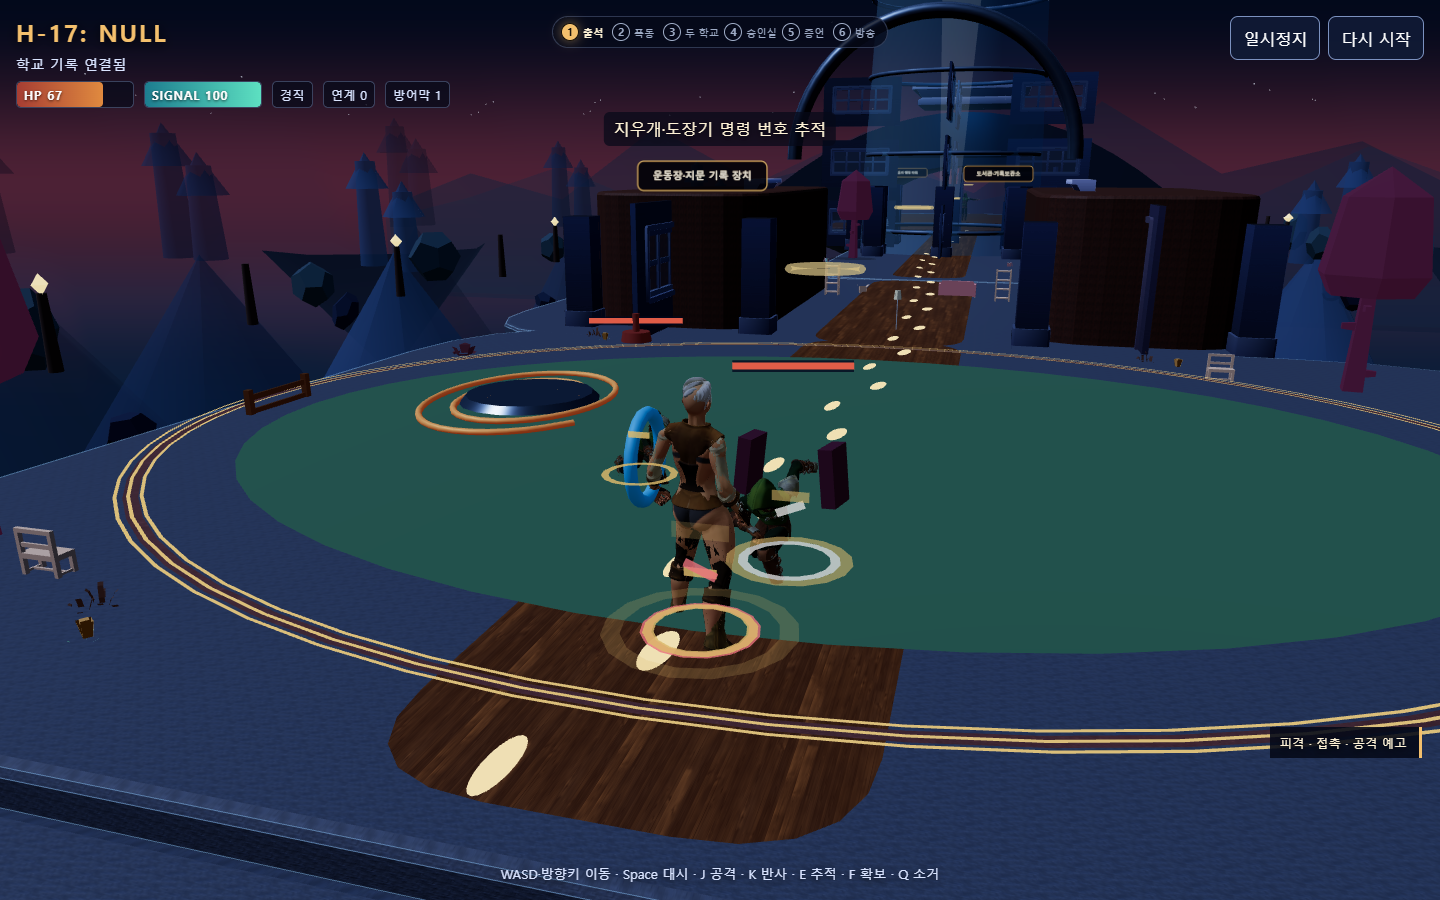
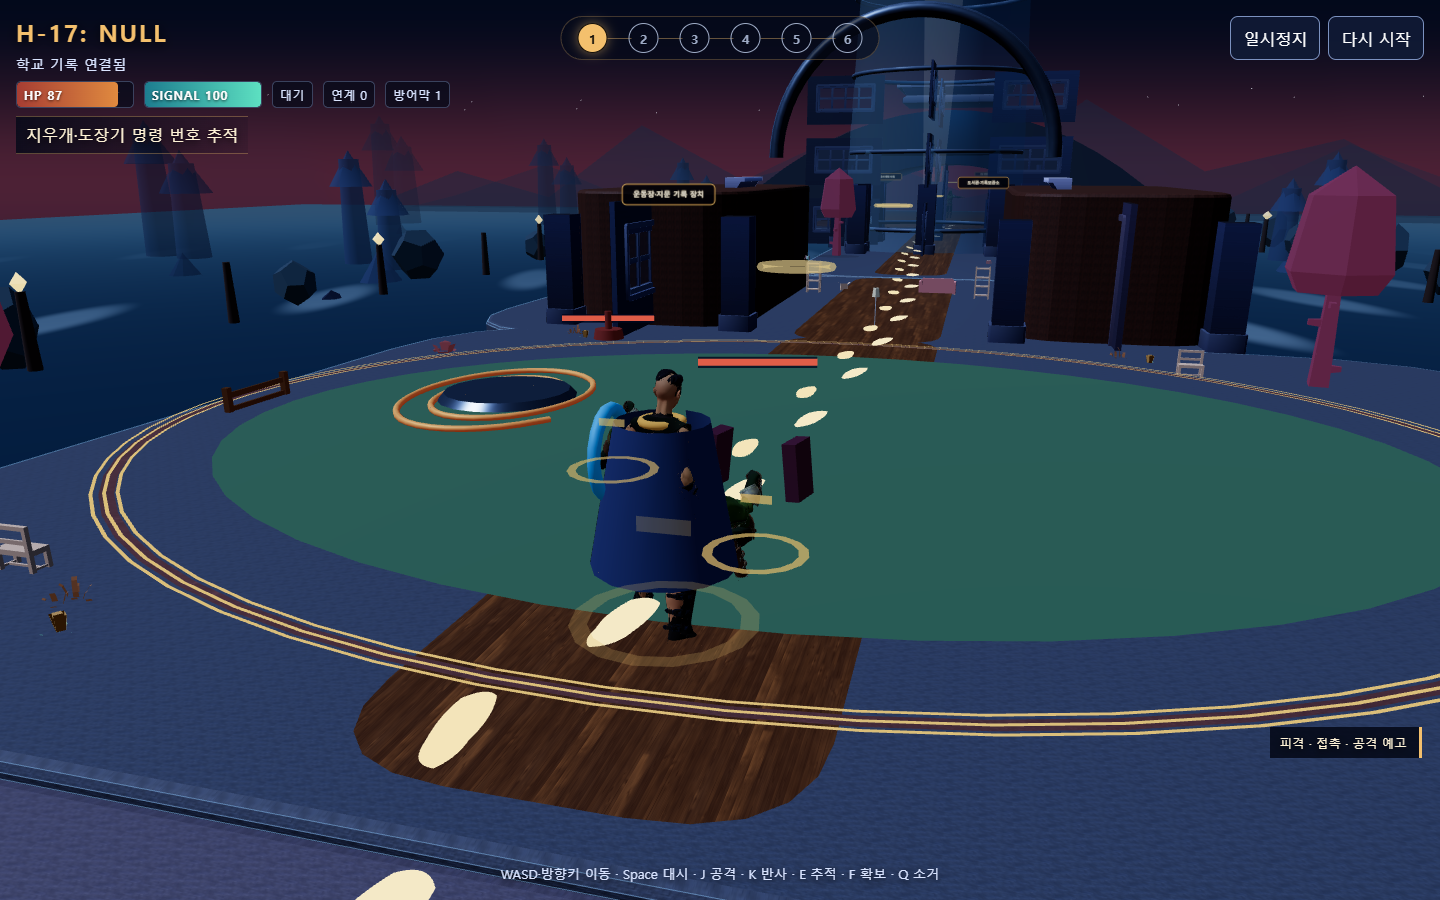
docs(reboot): record the aligned opening vista

diff --git a/DESIGN.md b/DESIGN.md
@@ -22,11 +22,21 @@
 
 ### P0 첫 조망 수용 기준
 
-- 1440×900 새 게임 첫 프레임은 캐릭터를 화면 높이의 18–26%로 유지하고, 전경의 목재·암석·식생, 중경의 열린 교실·명단탑, 원경의 운동장·삭제 타워를 한 프레임의 세 깊이로 읽게 한다.
+- 1440×900 새 게임 첫 프레임은 사용자 레퍼런스의 화면 비율을 직접 따른다. 캐릭터는 화면 가로 36–43%, 세로 45–88% 범위에 놓고 화면 높이의 34–44%로 읽히게 한다. 목표 빛기둥은 화면 가로 57–63%, 수평선 위에 놓는다.
+- 석재 진입로는 화면 하단 너비의 48–64%에서 시작해 수평선에서 6–10%로 좁아지는 한 개의 명확한 원근 축을 만든다. 열린 교실은 목적지의 생활 공간으로 읽히되 시작 프레임 중앙을 벽·기둥·계단으로 막지 않는다.
+- 첫 조망은 전경의 목재 난간·암석·식생, 중경의 열린 길과 부유 기록 조각, 원경의 명단탑·삭제 타워를 한 프레임의 세 깊이로 읽게 한다. 원경 건축은 수평선 실루엣으로 남기고, 플레이 경로보다 높은 시각 우선순위를 갖지 않는다.
 - 화면 상부는 검은 단색 면이 아니라 남색 상공 → 자주빛 황혼선 → 청회색 수평선의 3단 대기 램프와 두 겹 이상의 부유 섬 실루엣을 보여야 한다.
 - 첫 구역에서 콘크리트·벽돌·목재·유리·금속 중 네 가지 이상이 동시에 구분되고, 호박빛 발자국/기록 경로가 다음 목표까지 이어져야 한다.
 - 열린 교실 주변에는 실제 GLB 식생·암석·가구를 14개 이상 두고, 명단탑과 유리 행정 타워의 외피는 각각 12개 이상의 GLB 건축 모듈로 실루엣과 창·기둥 리듬을 만든다.
 - P0 보강 뒤에도 장면 예산은 1440×900 기준 draw call 200 이하, triangle 160,000 이하, 상시 라이트 4개 이하를 유지한다.
+
+### P0 레퍼런스 재질·밀도 계약
+
+- 길은 동일한 육각 판 반복이 아니라 크기·각도·색온도·높이가 다른 불규칙 석판과 그 사이의 어두운 틈으로 보인다. 하단의 큰 석판은 카메라 가까이에서 표면 노멀과 모서리 마모가 읽혀야 한다.
+- 절벽 양쪽은 검은 삼각형 덩어리가 아니라 3단 이상의 암반 림, 낮은 호박색 관목, 보랏빛 잎, 드문 목재 난간이 겹쳐져 프레임을 만든다.
+- 부유 기록 조각은 화면 중앙을 가리지 않는 7–11개의 서로 다른 크기·회전·깊이로 배치한다. 종이는 따뜻한 아이보리, 균열과 세 개의 기록 구멍은 어두운 남색으로 읽힌다.
+- 목표 빛기둥과 발자국만 강한 호박색을 사용한다. 교실 표지·목표 칩·환경 링이 같은 밝기로 경쟁하지 않게 한다.
+- 플레이어 복장은 흙빛 판타지 의상이 아니라 남색·먹색 외투, 따뜻한 황토색 목도리/포인트, 밝은 피부·머리 실루엣으로 학교 미스터리의 주인공처럼 읽혀야 한다.
 
 ## HUD와 제품 표면
 
